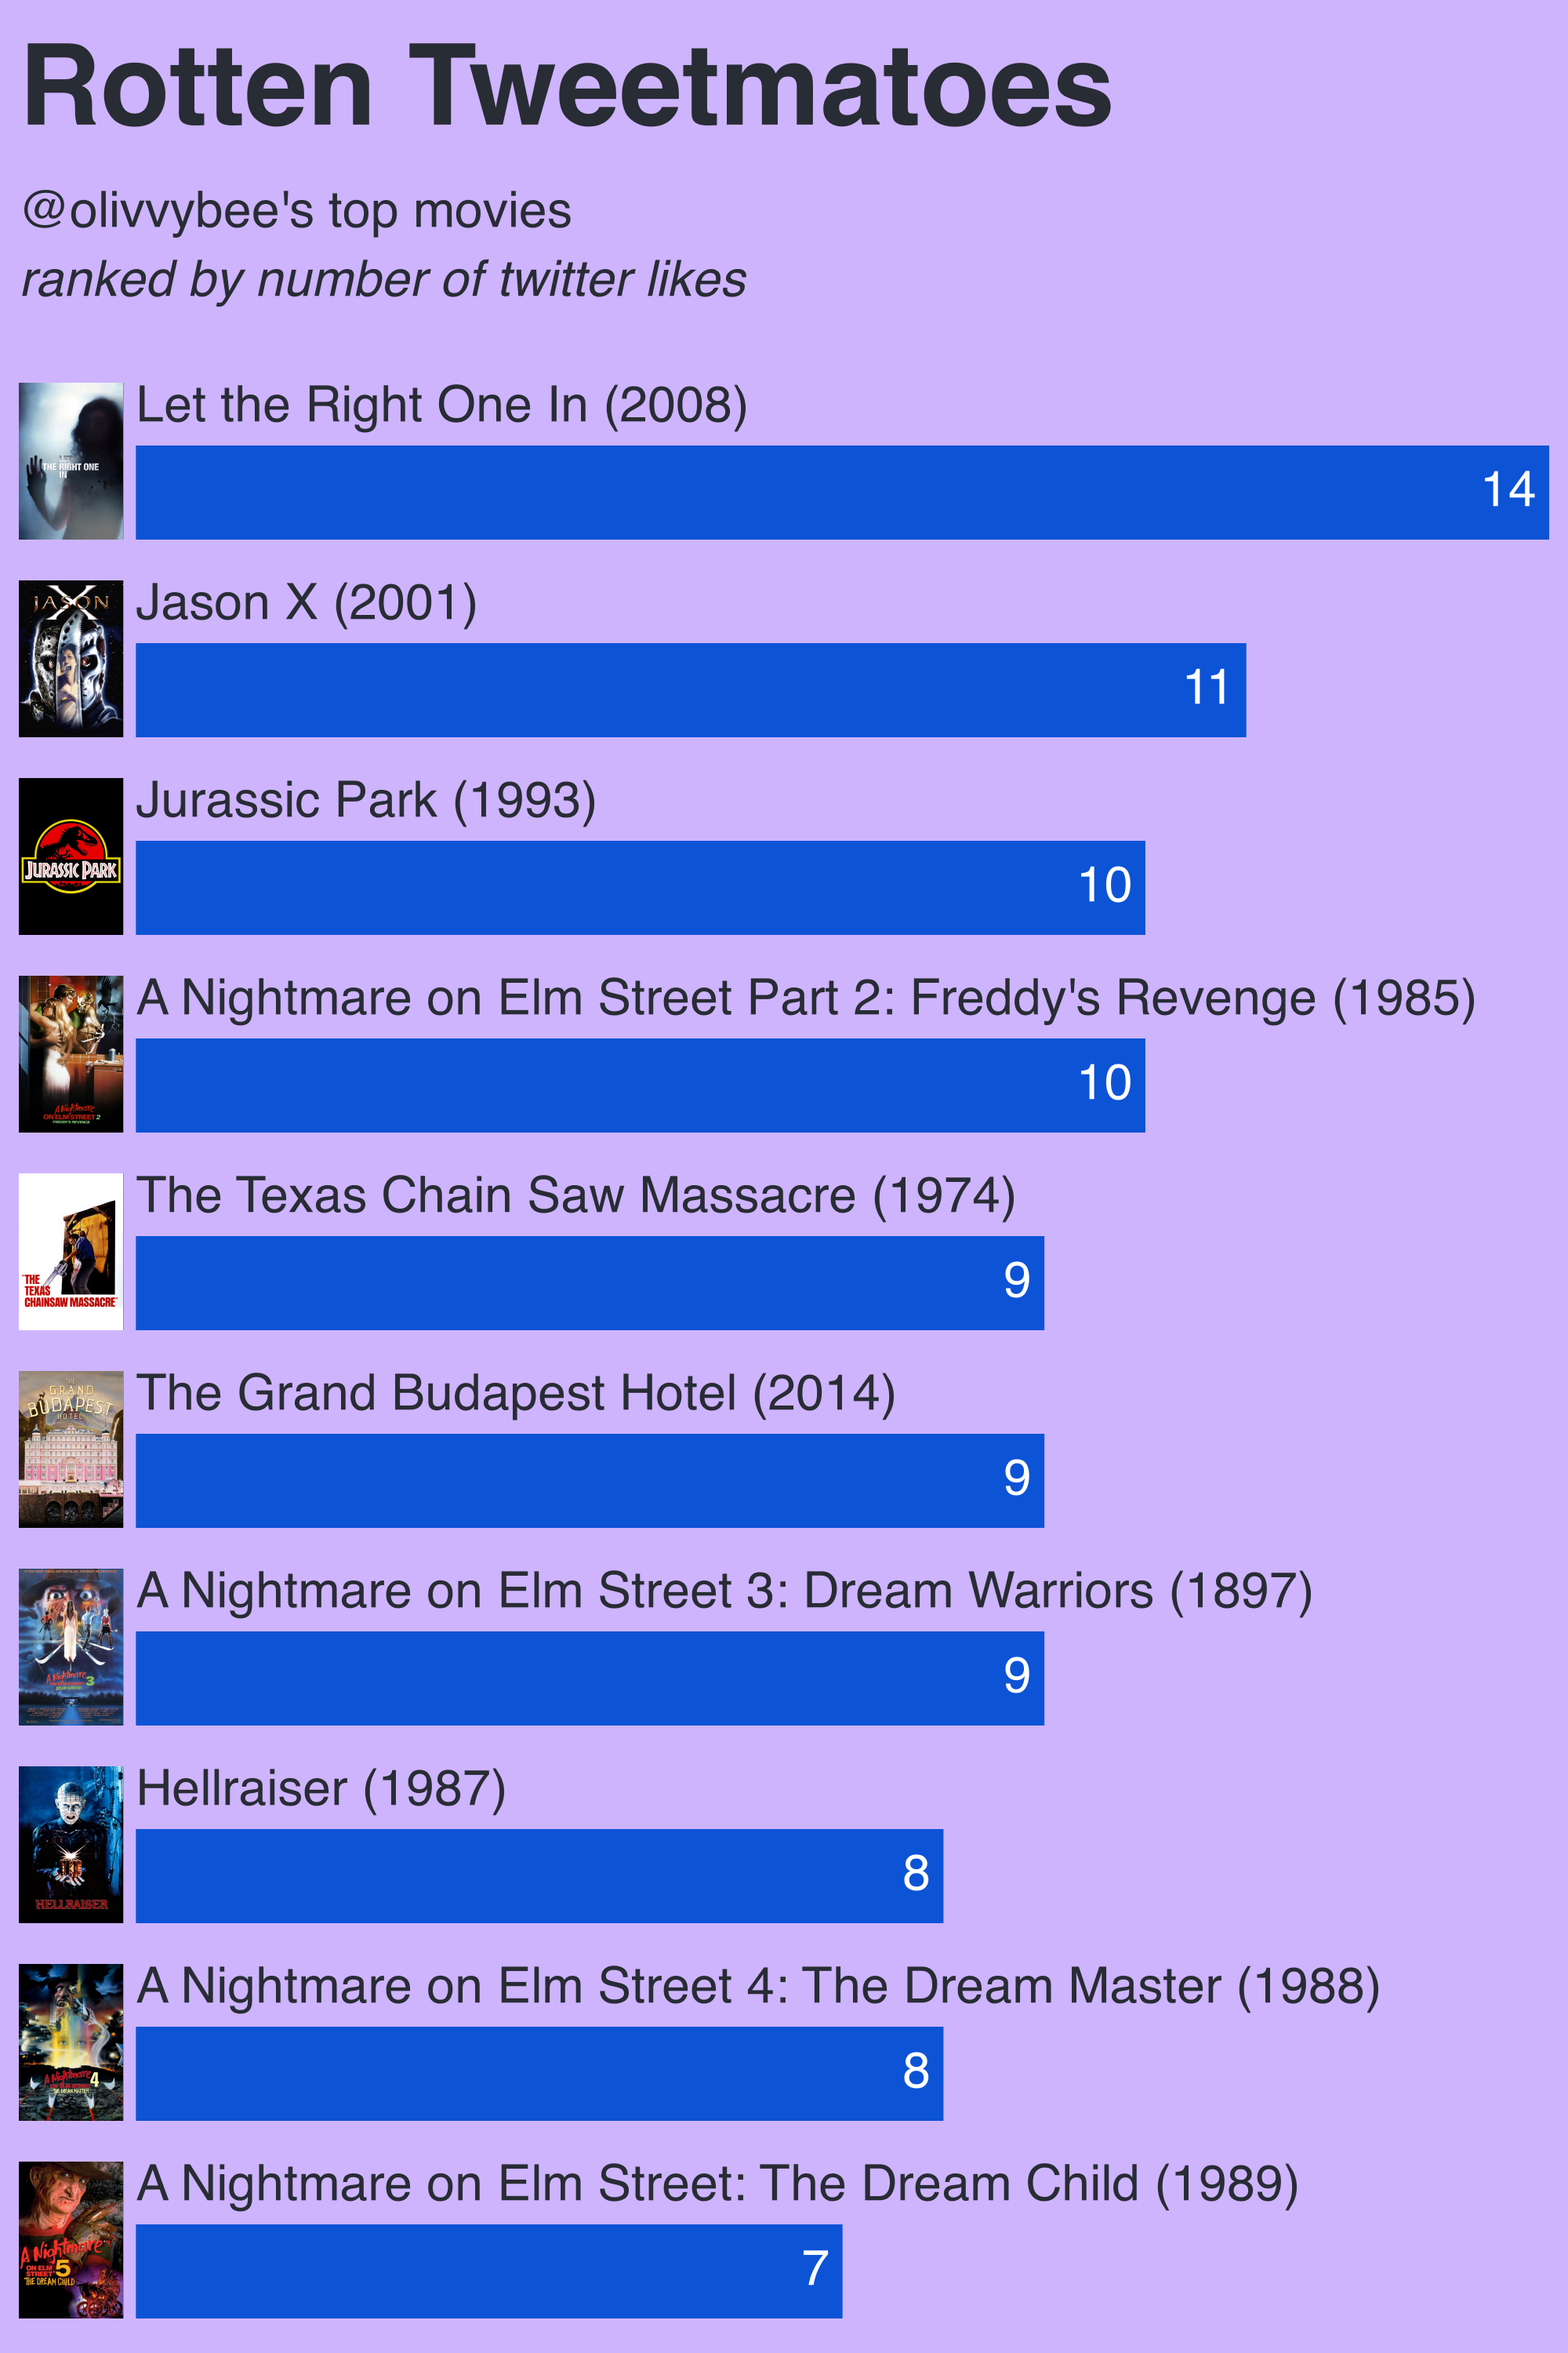
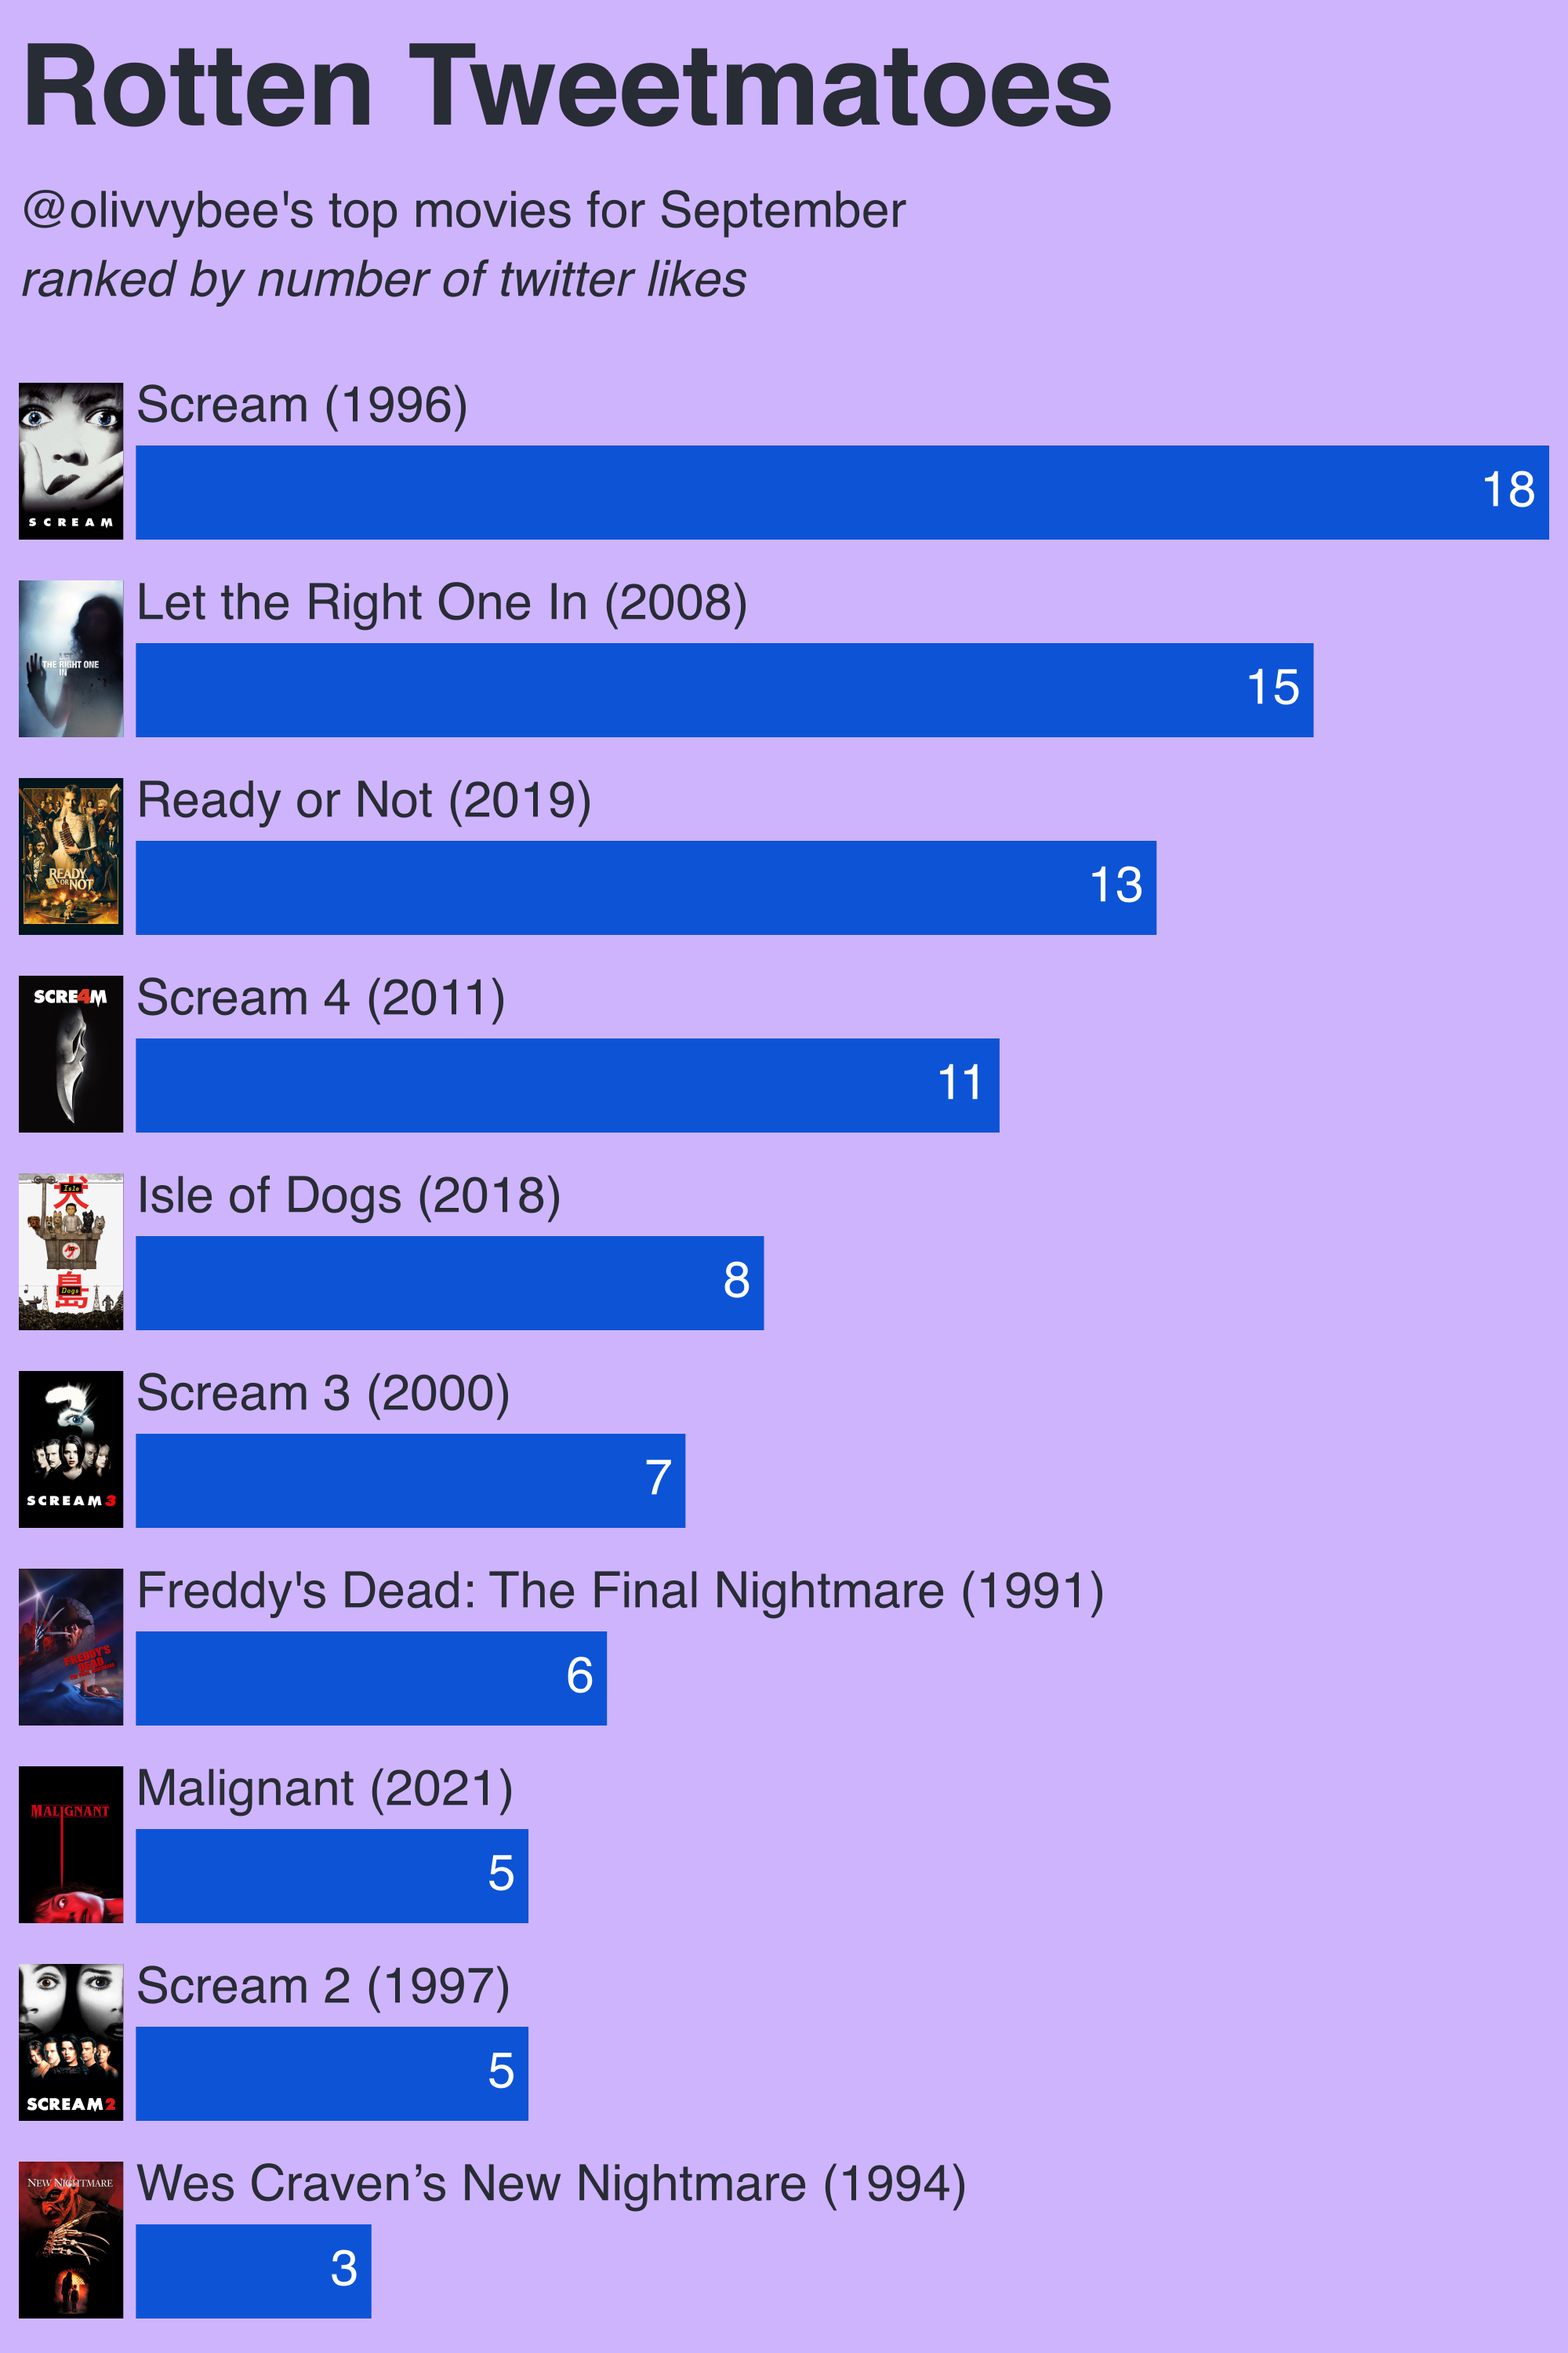
Add an option to search for the current month's tweets

diff --git a/src/findMovieTweets.ts b/src/findMovieTweets.ts
@@ -7,7 +7,8 @@ const MOVIE_TWEET_REGEX = /\s*Now watching:(.+)\(([\d]{4})\)/i;
 
 export const findMovieTweets = async (
   username: string,
-  count: number = 500
+  count: number,
+  currentMonth: boolean = false
 ) => {
   const client = new TwitterApi({
     appKey: process.env.TWITTER_APP_KEY || '',
@@ -17,9 +18,33 @@ export const findMovieTweets = async (
   }).readOnly.v1;
 
   const userTimeline = await client.userTimelineByUsername(username);
-  await userTimeline.fetchLast(count);
 
-  const movieTweets = userTimeline.tweets.reduce(
+  const now = new Date();
+  const day = now.getDate();
+  const month = day > 7 ? now.getMonth() : now.getMonth() - 1;
+
+  if (currentMonth) {
+    let finished = false;
+    while (!finished) {
+      await userTimeline.fetchNext();
+      const lastTweet = userTimeline.tweets[userTimeline.tweets.length - 1];
+      const lastTweetDate = new Date(lastTweet.created_at);
+      if (lastTweetDate.getMonth() < month) {
+        finished = true;
+      }
+    }
+  } else {
+    await userTimeline.fetchLast(count);
+  }
+
+  const filteredTweets = currentMonth
+    ? userTimeline.tweets.filter((tweet) => {
+        const tweetDate = new Date(tweet.created_at);
+        return tweetDate.getMonth() === month;
+      })
+    : userTimeline.tweets;
+
+  const movieTweets = filteredTweets.reduce(
     (movieTweets: MovieTweet[], tweet) => {
       const match = tweet.full_text?.match(MOVIE_TWEET_REGEX);
       if (!match) {

diff --git a/src/plotChart.ts b/src/plotChart.ts
@@ -22,9 +22,28 @@ const POSTER_WIDTH = (2 * POSTER_HEIGHT) / 3;
 
 const MAX_BAR_WIDTH = CANVAS_WIDTH - POSTER_WIDTH - 16 - 48;
 
+const MONTH_NAMES = [
+  'January',
+  'February',
+  'March',
+  'April',
+  'May',
+  'June',
+  'July',
+  'August',
+  'September',
+  'October',
+  'November',
+  'December',
+];
+
 let y = 48;
 
-export const plotChart = (movieTweets: MovieTweet[], username: string) => {
+export const plotChart = (
+  movieTweets: MovieTweet[],
+  username: string,
+  currentMonth: boolean = false
+) => {
   const canvas = createCanvas(CANVAS_WIDTH, CANVAS_HEIGHT);
   const ctx = canvas.getContext('2d');
 
@@ -38,8 +57,16 @@ export const plotChart = (movieTweets: MovieTweet[], username: string) => {
 
   y += TITLE_FONT_SIZE + 48;
 
+  const now = new Date();
+  const day = now.getDate();
+  const month = day > 7 ? now.getMonth() : now.getMonth() - 1;
+
+  const topMoviesText = currentMonth
+    ? `@${username}'s top movies for ${MONTH_NAMES[month]}`
+    : `@${username}'s top movies`;
+
   ctx.font = BODY_FONT;
-  ctx.fillText(`@${username}'s top movies`, 24, y);
+  ctx.fillText(topMoviesText, 24, y);
 
   y += BODY_FONT_SIZE + 24;
 

diff --git a/src/main.ts b/src/main.ts
@@ -20,6 +20,11 @@ export const main = async () => {
       description: 'The total number of tweets to fetch to find movie tweets',
       default: 250,
     })
+    .option('month', {
+      alias: 'm',
+      type: 'boolean',
+      description: 'Find tweets from the current month',
+    })
     .option('output', {
       alias: 'o',
       type: 'string',
@@ -27,16 +32,16 @@ export const main = async () => {
       default: 'rotten_tweetmatoes.png',
     }).argv;
 
-  const { username, count, output } = argv;
+  const { username, count, month, output } = argv;
 
   if (!username) {
     console.error('--username option is required.');
     process.exit(1);
   }
 
-  const movieTweets = await findMovieTweets(username, count);
+  const movieTweets = await findMovieTweets(username, count, month);
 
-  const imageData = plotChart(movieTweets, username);
+  const imageData = plotChart(movieTweets, username, month);
 
   const outputFilename = output.endsWith('.png') ? output : `${output}.png`;
   const outputPath = path.resolve(__dirname, outputFilename);
